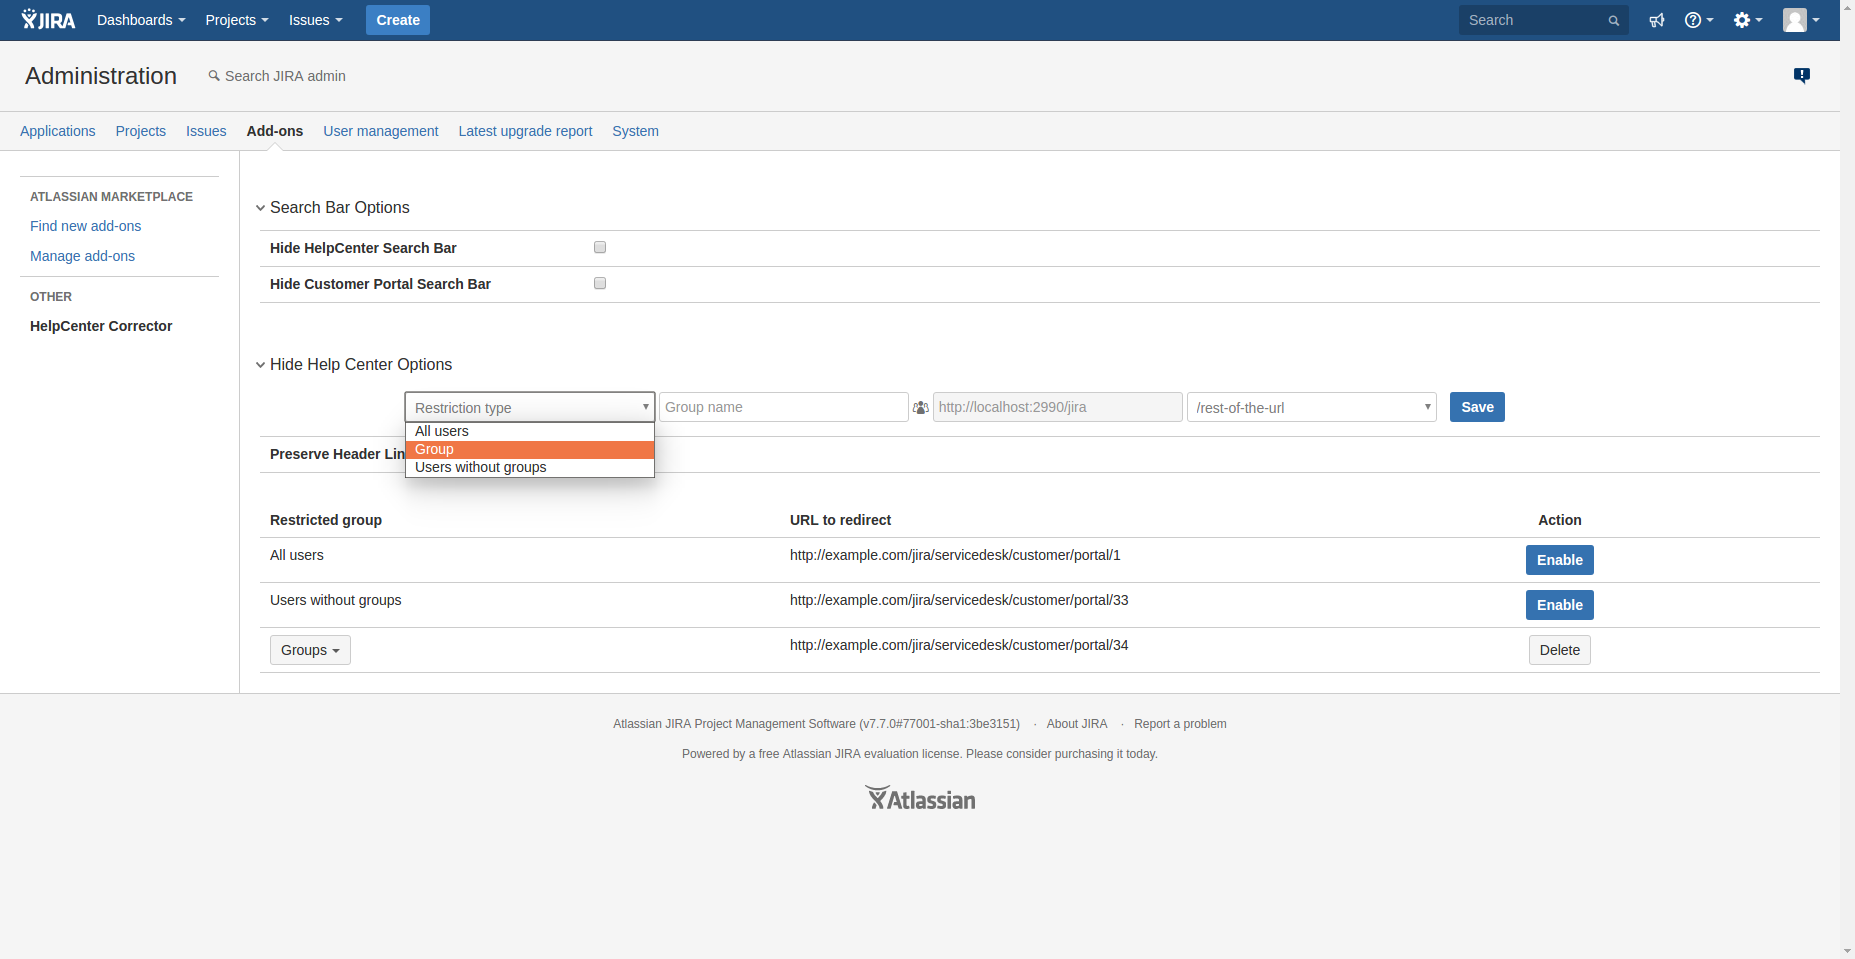
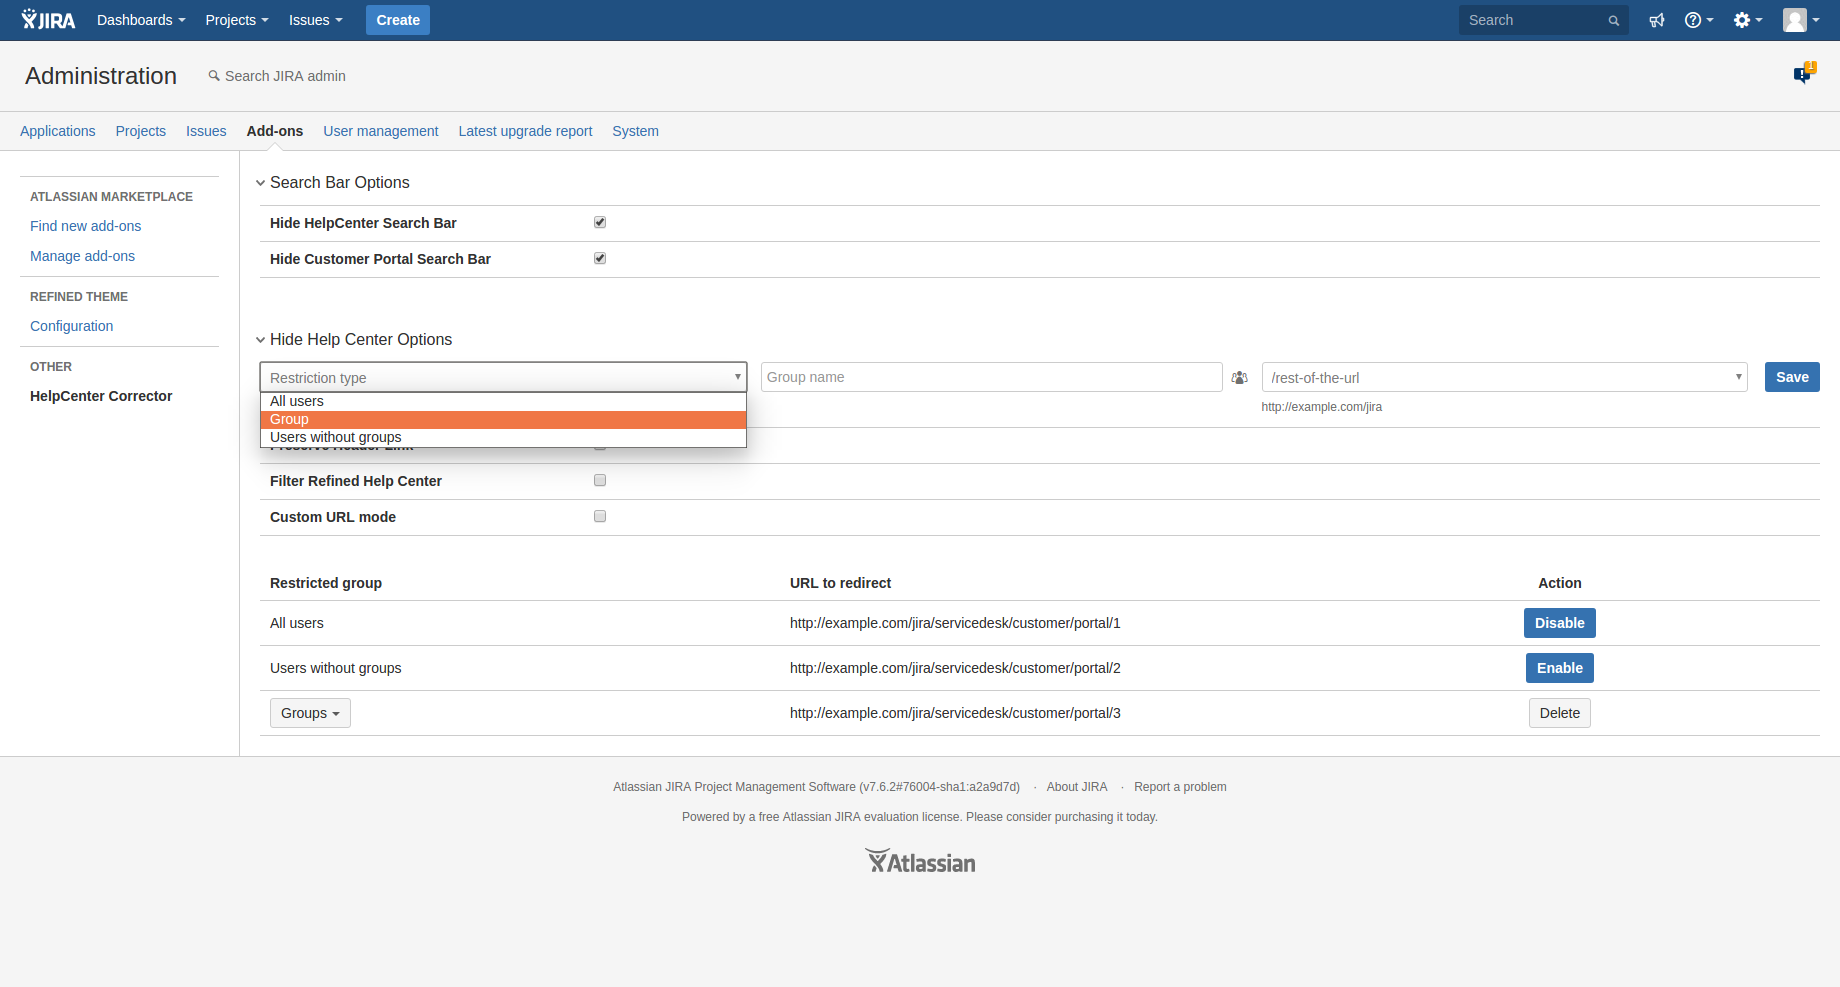
update screenshots, add paragraph about new functionality

diff --git a/hc-corrector.html b/hc-corrector.html
@@ -40,6 +40,10 @@ title: HelpCenter Corrector
     There is also an option to save top-left corner link, but replace its URL with the one that configured.
     To do so please check "Preserve Header Link" checkbox.
 </p>
+<p>
+    In version 1.3 we have added ability to enter custom redirection URLs and implemented compatibility with
+    RefinedTheme for Jira Service Desk. You can see appropriate options on the screenshot.
+</p>
     The restriction for users without groups can be configured in the same way as restrictions for all users.
 </p>
 <a href="#" onclick="return false;">
